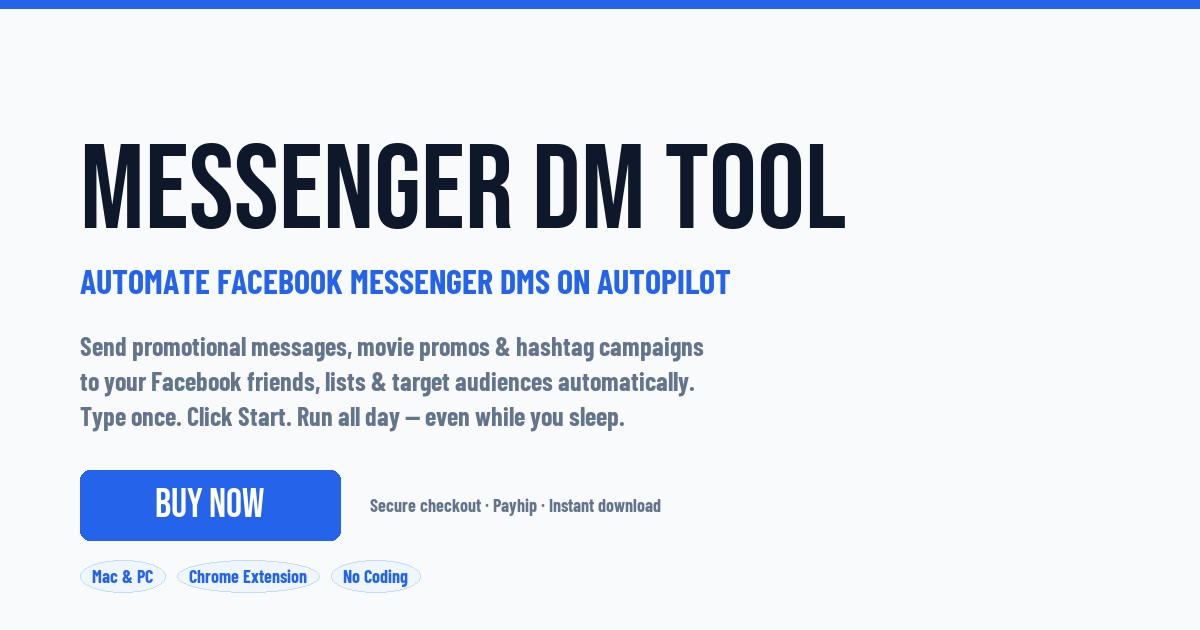
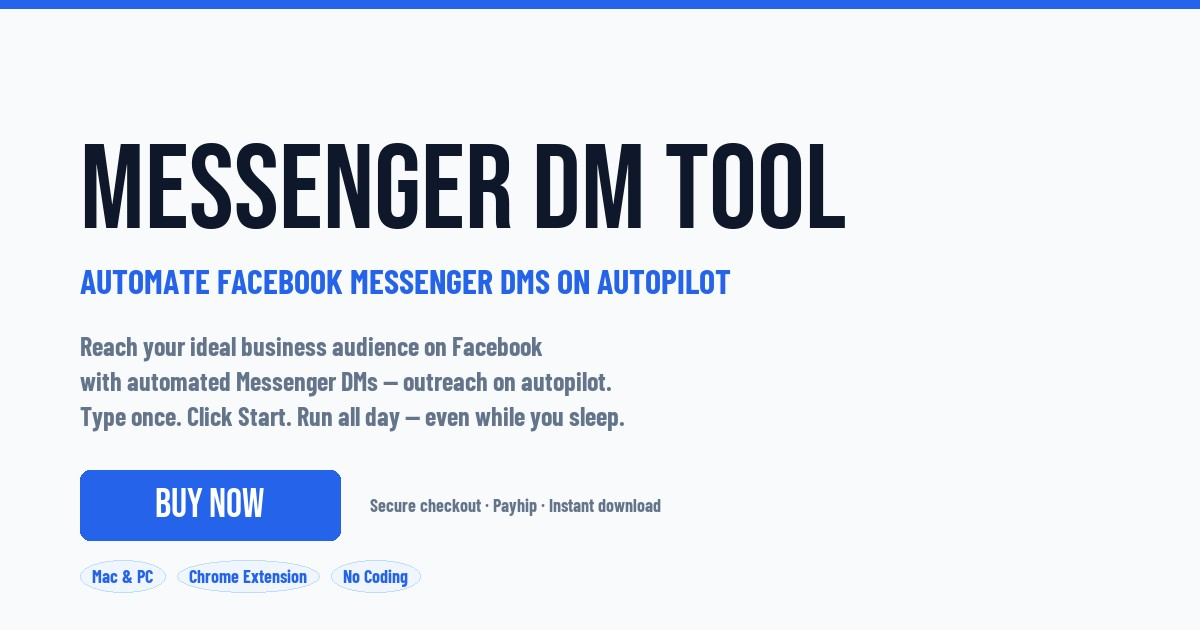
Add files via upload

Changed region(s): [[0.0617, 0.5429, 0.5858, 0.6333]]

diff --git a/index.html b/index.html
@@ -4,8 +4,8 @@
 <meta charset="UTF-8">
 <meta name="viewport" content="width=device-width, initial-scale=1.0">
 <title>Messenger DM Tool — Automate Facebook Messenger DMs (Chrome Extension)</title>
-<meta name="description" content="Send promotional messages, movie promos and hashtag campaigns to your Facebook friends, lists and target audiences automatically. Google Chrome extension for Mac & PC. Buy now.">
-<meta name="keywords" content="facebook messenger dm, bulk messages, facebook automation, chrome extension, messenger dm sender, hashtag campaigns, movie promos, mac, pc">
+<meta name="description" content="Reach and message your ideal business audience on Facebook — friends, groups, followers, and leads — automatically. Google Chrome extension for Mac & PC. Buy now.">
+<meta name="keywords" content="facebook messenger dm, bulk messages, facebook automation, chrome extension, messenger dm sender, business outreach, lead generation, hashtag campaigns, mac, pc">
 <meta name="author" content="Messenger DM Tool">
 <meta name="robots" content="index, follow">
 <link rel="canonical" href="https://messengerdmtool.com/">
@@ -19,7 +19,7 @@
 <meta property="og:type" content="website">
 <meta property="og:url" content="https://messengerdmtool.com/">
 <meta property="og:title" content="Messenger DM Tool — Automate Facebook Messenger DMs">
-<meta property="og:description" content="Send bulk Facebook Messenger DMs automatically. Type once, click Start, run all day on Mac & PC. Buy now.">
+<meta property="og:description" content="Reach your ideal business audience on Facebook with automated Messenger DMs. Type once, click Start, run all day on Mac & PC. Buy now.">
 <meta property="og:image" content="og-image.jpg">
 <meta property="og:image:width" content="1200">
 <meta property="og:image:height" content="630">
@@ -29,7 +29,7 @@
 <!-- Twitter Card -->
 <meta name="twitter:card" content="summary_large_image">
 <meta name="twitter:title" content="Messenger DM Tool — Automate Facebook Messenger DMs">
-<meta name="twitter:description" content="Send bulk Facebook Messenger DMs automatically. Type once, click Start, run all day on Mac & PC.">
+<meta name="twitter:description" content="Reach your ideal business audience on Facebook with automated Messenger DMs. Type once, click Start, run all day on Mac & PC.">
 <meta name="twitter:image" content="og-image.jpg">
 
 <link rel="preconnect" href="https://fonts.googleapis.com">
@@ -346,7 +346,7 @@
       <div>
         <div class="hero-badge"><span class="dot"></span> Google Chrome Extension · Mac &amp; PC</div>
         <h1>Automate your <span class="grad">Facebook Messenger DMs</span> — on autopilot</h1>
-        <p>Send promotional messages, movie promos, and hashtag campaigns to your Facebook friends, lists, and target audiences automatically. Type your message once, click Start, and let it run in the background all day — even while you sleep.</p>
+        <p>Reach and message your ideal business audience on Facebook — friends, groups, followers, and leads — automatically. Type your message once, click Start, and let it run in the background all day — even while you sleep.</p>
         <div class="hero-cta">
           <a class="btn primary" href="https://payhip.com/b/OQcTg" target="_blank" rel="noopener">Buy Now — Get Instant Access</a>
           <a class="btn" href="#demo">Watch Demo</a>
@@ -391,7 +391,7 @@
       <span class="chip">Group members</span>
       <span class="chip">Post engagers</span>
       <span class="chip">Location-based</span>
-      <span class="chip">Movie promos</span>
+      <span class="chip">Business outreach</span>
     </div>
   </div>
 </section>
@@ -482,7 +482,7 @@
       <h2 class="title">Frequently asked questions</h2>
     </div>
     <div class="faq">
-      <details class="faq-item"><summary>What is Messenger DM Tool?</summary><p>It's a Google Chrome extension that lets you send promotional messages — like movie promos or hashtag campaigns — to your Facebook friends, lists and target audiences automatically. Just type your message once, click Start, and let it run in the background.</p></details>
+      <details class="faq-item"><summary>What is Messenger DM Tool?</summary><p>It's a Google Chrome extension that lets you send promotional and outreach messages — like business promos, lead generation, or hashtag campaigns — to your Facebook friends, groups, followers, and target audiences automatically. Just type your message once, click Start, and let it run in the background.</p></details>
       <details class="faq-item"><summary>Does it work on Mac and PC?</summary><p>Yes. It runs in Google Chrome on both macOS and Windows, in the background, all day — even while you sleep.</p></details>
       <details class="faq-item"><summary>Can I target specific audiences?</summary><p>Yes. Target by hashtag, location, post, custom user lists, group members, followers, or following.</p></details>
       <details class="faq-item"><summary>Is there a free version?</summary><p>Yes, there's a free version with a daily sending limit. Upgrade to Pro for unlimited daily messages and advanced features.</p></details>
